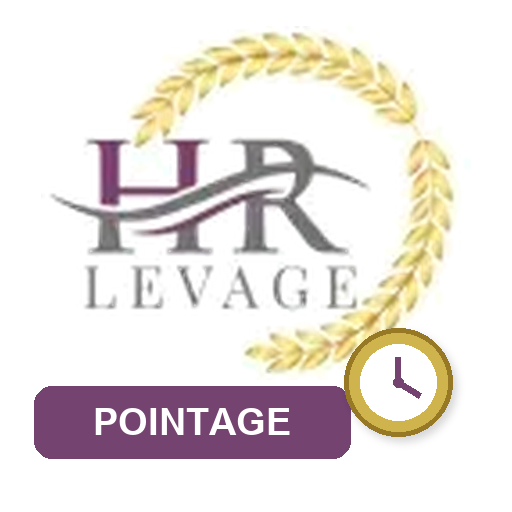
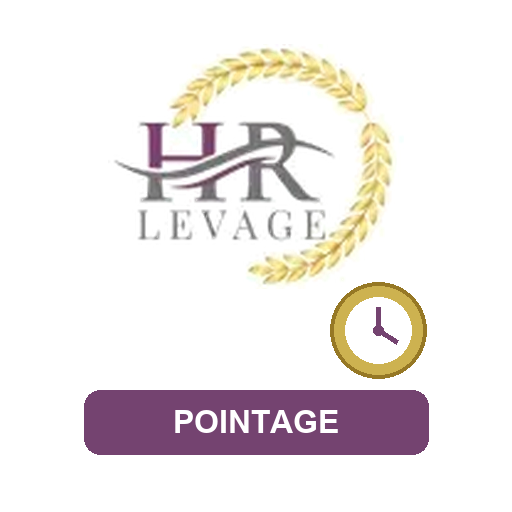
Applique la version 2 des icones

Changed region(s): [[0.0625, 0.0625, 0.9062, 0.9062]]

diff --git a/service-worker.js b/service-worker.js
@@ -1,4 +1,4 @@
-const CACHE_NAME = 'pointage-hr-v12';
+const CACHE_NAME = 'pointage-hr-v13';
 const FILES = [
   './index.html',
   './manifest.json',
